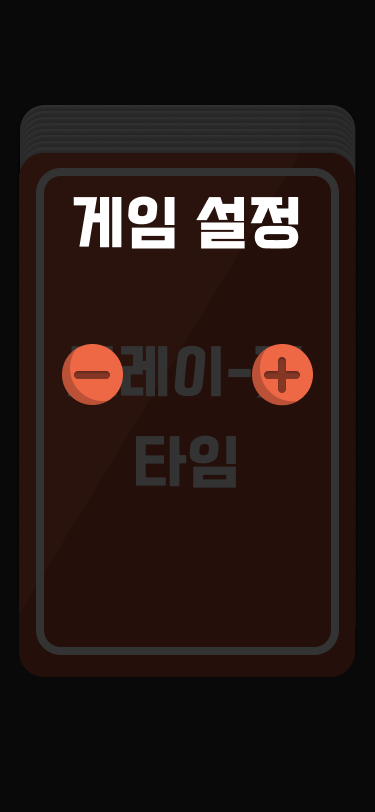
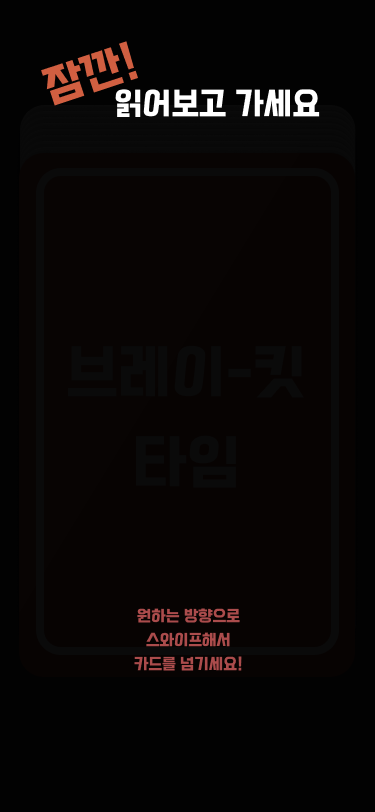
check

diff --git a/lib/CardList.dart b/lib/CardList.dart
@@ -1,0 +1,115 @@
+// ignore: file_names
+// ignore_for_file: file_names, non_constant_identifier_names
+
+import 'package:flutter/material.dart';
+
+List<Widget> Break_It_1_level1 = [
+  CardDeckButton3('13회 OO중학교 동창회 기념’ 같은 문구 적혀있는 수건 절대 안 쓸 것 같은 사람 '),
+  CardDeckButton3('누가 부르는 데 에어팟 끼고 안 들리는 척 할 것 같은 사람 '),
+  CardDeckButton3('길 가다가 번호 따여봤을 것 같은 사람'),
+  CardDeckButton3('동창회에서 만났는데 몰라보게 달라졌을 것 같은 사람'),
+  CardDeckButton3('혼자서 유튜브 보며 낄낄거리다가 화면에 비친 자신의 모습을 보고 현타올 것 같은 사람'),
+  CardDeckButton3('다이어트 때 대리만족 한답시고 먹방 보다가 새벽에 라면 끓여먹을 것 같은 사람   '),
+  CardDeckButton3('고등학교 때 맞춘 반티 아직도 입고 다닐 것 같은 사람  '),
+  CardDeckButton3('머릿 속 지식 절반의 출처가 나무위키일 것 같은 사람   '),
+  CardDeckButton3('클래식 들으면서 아메리카노 한 잔과 함께 아침을 시작할 것 같은 사람   '),
+  CardDeckButton3('샤워할 때 코인노래방 마냥 눈물 쏟는 발라드 부를 것 같은 사람'),
+  CardDeckButton3('  '),
+];
+
+//교회에서 만난 사이
+List<Widget> Break_It_1_level2 = [
+  CardDeckButton3('좋아하는 연예인 생일 때 팬카페 열어서 직접 만든 굿즈 판매할 것 같은 사람   '),
+  CardDeckButton3('화장실을 갔는데 거울에 손자국 있으면 거슬려서 꼭 닦고 나올 것 같은 사람   '),
+  CardDeckButton3('감자 껍질 벗기다가 귀찮아서 그냥 요리에 사용할 것 같은 사람  '),
+  CardDeckButton3('비가 왔는데 우산이 없어도 느긋하게 걸어갈 것 같은 사람'),
+  CardDeckButton3('씽씽이 타는데 보호장구 풀착장하고 탈 것 같은 사람  '),
+  CardDeckButton3('방귀 뀌고 나 아닌데 할 것 같은 사람'),
+  CardDeckButton3('복권 당첨 문자가 와도 3일 후에 확인할 것 같은 사람  '),
+  CardDeckButton3('샤워하며 생각 정리를 할 것 같은 사람'),
+  CardDeckButton3('마트에서 가격표도 안 보고 물건 담을 것 같은 사람 '),
+  CardDeckButton3('버스에서 거스름돈을 200원 더 받아도 그냥 가져갈 것 같은 사람  '),
+];
+List<Widget> Break_It_1_level3 = [
+  CardDeckButton3('땅바닥에 과자 떨어뜨리면 3초 안 됐다며 주워먹을 것 같은 사람  '),
+  CardDeckButton3('이 3초를 세줄 것 같은 사람  '),
+  CardDeckButton3('3초 이미 지났다며 딴지 걸 것 같은 사람  '),
+  CardDeckButton3('길 가다가 5만 원 주우면 주변을 살피고 자기 주머니 속에 넣을 것 같은 사람  '),
+  CardDeckButton3('사람 많은 지하철에서 은근한 몸싸움을 할 것 같은 사람  '),
+  CardDeckButton3('집에 건담로봇 조립해서 시리즈별로 전시해두었을 것 같은 사람  '),
+  CardDeckButton3('전생에 돌멩이였을 것 같은 사람  '),
+  CardDeckButton3('샴푸 브랜드에 민감할 것 같은 사람  '),
+  CardDeckButton3('기사님이 문을 제때 열어주지 않으면 말없이 다음 정거장에 내릴 것 같은 사람  '),
+  CardDeckButton3('온갖 혜택과 쿠폰을 알아와서 영화를 반값에 볼 것 같은 사람  '),
+];
+List<Widget> Break_It_1_level4 = [
+  CardDeckButton3('  '),
+  CardDeckButton3('  '),
+  CardDeckButton3('  '),
+  CardDeckButton3('  '),
+  CardDeckButton3('  '),
+  CardDeckButton3('  '),
+  CardDeckButton3('  '),
+  CardDeckButton3('  '),
+  CardDeckButton3('  '),
+  CardDeckButton3('  '),
+];
+List<Widget> University_level1 = [
+  CardDeckButton3(
+      '원하던 대학교에 추가합격했지만 모르는 전화는 받지 않아 그 사실을 아직까지도 모르고 있을 것 같은 사람   '),
+  CardDeckButton3('학식 받으면서 무한리필 되냐고 물어볼 것 같은 사람  '),
+  CardDeckButton3('전공수업 결석/조퇴를 밥 먹듯이 할 것 같은 사람   '),
+  CardDeckButton3('CC를 꿈꾸며 고백했다가 친한 사이로 남자고 해서 MT 안 나올 것 같은 사람  '),
+  CardDeckButton3('수강신청날 늦잠 자지만 엄청난 운빨로 최고의 시간표를 완성할 것 같은 사람   '),
+  CardDeckButton3('피피티 만들 때 정렬 안 맞거나 글자 크기 안 맞으면 스트레스 받아할 것 같은 사람   '),
+  CardDeckButton3('도서관 오픈 시간에 맞춰가서 마감 시간에 나올 것 같은 사람  '),
+  CardDeckButton3('교수님 손잡고 대학원 갈 것 같은 사람'),
+  CardDeckButton3('하루종일 뒹굴거리면서 과제하기 싫다고 할 것 같은 사람  '),
+  CardDeckButton3('엄청 열심히 하고 B+받아도 만족해할 것 같은 사람  '),
+];
+
+List<Widget> University_level2 = [
+  CardDeckButton3('길 가면 5명 중 한 명꼴로 아는 사람 마주쳐서 같이 다니기 힘든 사람   '),
+  CardDeckButton3('동아리 부자일 것 같은 사람  '),
+  CardDeckButton3('무임승차 했는데도 왠지 모르게 이름을 빼 버리기가 머뭇거려질 것 같은 사람  '),
+  CardDeckButton3('CC를 많이 해서 적이 많을 것 같은 사람  '),
+  CardDeckButton3('도서관에서 음료수에 쪽지 많이 받아봤을 것 같은 사람  '),
+  CardDeckButton3('교수님과 일주일에 한 번 이상 식사를 함께할 것 같은 사람'),
+  CardDeckButton3('피피티 템플릿만 2시간 고를 것 같은 사람  '),
+  CardDeckButton3('안 그래도 바쁘면서 학생회에 나가 고생을 사서 할 것 같은 사람  '),
+  CardDeckButton3('이 시대의 참된 과대상  '),
+  CardDeckButton3('대학교와서 새사람 됐을 것 같은 사람  '),
+];
+
+List<Widget> University_level3 = [
+  CardDeckButton3('아침에 알람 6개 맞춰놨지만 결국 지각할 것 같은 사람  '),
+  CardDeckButton3('조별과제할 때 함께하면 버스 태워줄 것 같은 사람  '),
+  CardDeckButton3('술에 취하면 가장 추한 모습을 보일 것 같은 사람'),
+  CardDeckButton3('교수님 말씀이면 껌뻑 죽을 것 같은 사람'),
+  CardDeckButton3('같이 룸메하면 없는 듯이 지내줄 것 같은 사람'),
+  CardDeckButton3('학식을 먹으면서도 맛있다고 할 것 같은 사람'),
+  CardDeckButton3('편의점 알바하면 노트북 가져가서 게임하고 있을 것 같은 사람'),
+  CardDeckButton3('취업 합격하기 전까진 절대 지원한 곳을 말해주지 않을 것 같은 사람 '),
+  CardDeckButton3('시험 3일 전까지 놀다가 벼락치기 해놓고 시험 망쳤다며 징징거릴 것 같은 사람'),
+  CardDeckButton3('성적 장학금 받아도 티 안내고 다닐 것 같은 사람 '),
+];
+
+List<Widget> Church_level1 = [
+  CardDeckButton3('찬양 부를 때 립싱크 할것 같은 사람'),
+  CardDeckButton3('기도회 때 기도하는 척하면서 잘 것 같은 사람'),
+  CardDeckButton3('이름이 기독교와 관련있을 것 같은 사람'),
+  CardDeckButton3('선물 준다고 해서 교회 따라왔을 것 같은 사람'),
+  CardDeckButton3('예배당 제일 앞자리에 앉을 것 같은 사람'),
+  CardDeckButton3('수련회 이튿날 밤 놀자고 아무도 불러주지 않아서 먼저 잘 것 같은 사람'),
+  CardDeckButton3('유치부 찬양팀 리더여서 율동 (겁나) 뽀짝하게 할 것 같은 사람'),
+  CardDeckButton3('부활절 계란 너무 많이 먹어서 점심 못 먹을 것 같은 사람'),
+  CardDeckButton3('하루에 성경 4장 이상 읽을 것 같은 사람'),
+  CardDeckButton3('교회 안에서 고백 받아본 것 같은 사람 '),
+];
+
+Widget CardDeckButton3(String cardContent) {
+  String cardPath = 'assets/ready.png';
+  String str = cardContent;
+
+  return Container();
+}

diff --git a/lib/gamesetpage.dart b/lib/gamesetpage.dart
@@ -1,4 +1,6 @@
+import 'package:cardgame/readypage.dart';
 import 'package:flutter/material.dart';
+import 'dart:async';
 
 class SetPage extends StatefulWidget {
   const SetPage({Key? key}) : super(key: key);
@@ -8,84 +10,74 @@ class SetPage extends StatefulWidget {
 }
 
 class _SetPageState extends State<SetPage> {
+  late Timer _timer;
+  late Timer _a;
+  String imagePath = "assets/startbutton.png";
+
   int cardcount = 15;
+  /*
+  _SetPageState() {
+    _timer = new Timer(const Duration(milliseconds: 5000), () {
+      setState(() {
+        while (true) {
+          imagePath = "assets/warningstart.png";
+          _a = new Timer(const Duration(milliseconds: 5000), () {
+            imagePath = "assets/startbutton.png";
+          });
+        }
+        ;
+      });
+    });
+  }*/
 
   @override
   Widget build(BuildContext context) {
     return Scaffold(
-        body: Stack(children: [
-      Container(
-        decoration: const BoxDecoration(
-            image: DecorationImage(
-          image: AssetImage("assets/starthome.png"),
-          fit: BoxFit.cover,
-        )),
-      ),
-      Padding(
-        padding: const EdgeInsets.only(
-          // left: 62,
-          top: 347,
-        ),
-        child: Row(
-          mainAxisAlignment: MainAxisAlignment.center,
-          children: [
-            Container(
-              margin: EdgeInsets.zero,
-              padding: EdgeInsets.zero,
-              height: 61,
-              width: 61,
-              child: InkWell(
-                  onTap: () {
-                    minusCounter();
-                  },
-                  child: Image.asset('assets/minusbutton.png')),
-            ),
-            Padding(
-              padding: const EdgeInsets.only(left: 20, right: 20),
-              child: SizedBox(
-                  width: 89,
-                  height: 60,
-                  child: Center(
-                    child: Text(
-                      "$cardcount" "장",
-                      style: const TextStyle(
-                        fontSize: 40,
-                        height: 150 / 100,
-                        fontWeight: FontWeight.w700,
-                        color: Color(0xffFFFFFF),
-                      ),
-                    ),
-                  )),
-            ),
-            Container(
-              margin: EdgeInsets.zero,
-              padding: EdgeInsets.zero,
-              height: 61,
-              width: 61,
-              child: InkWell(
-                  onTap: () {
-                    incrementCounter();
-                  },
-                  child: Image.asset('assets/addbutton.png')),
-            ),
-          ],
-        ),
-      ),
-      Center(
-        child: Padding(
-          padding: const EdgeInsets.only(
-            top: 200,
+      body: Stack(
+        children: [
+          Container(
+            decoration: const BoxDecoration(
+                image: DecorationImage(
+              image: AssetImage("assets/starthome.png"),
+              fit: BoxFit.cover,
+            )),
           ),
-          child: TextButton(
-              onPressed: () {},
-              child: const Text(
-                "게임 시작",
-                style: TextStyle(fontSize: 35, fontWeight: FontWeight.w700),
-              )),
-        ),
-      )
-    ]));
+          Align(
+            alignment: Alignment(0, 0.04434), // 정확하게 센터는 아니라서 계산 하고 넣은것.
+            child: Center(
+                child: Container(
+                    width: 310,
+                    height: 378,
+                    child: Image(
+                      image: AssetImage("assets/cardmove.gif"),
+                      fit: BoxFit.cover,
+                    ))),
+          ),
+          Center(
+            child: Padding(
+              padding: const EdgeInsets.only(top: 709),
+              child: Container(
+                margin: EdgeInsets.zero,
+                padding: EdgeInsets.zero,
+                height: 68,
+                width: 340,
+                child: InkWell(
+                    onTap: () {
+                      Navigator.push(
+                          context,
+                          MaterialPageRoute(
+                              builder: (context) => const ReadyPage()));
+                    },
+                    child: Image.asset(imagePath)),
+              ),
+            ),
+          )
+        ],
+      ),
+    );
   }
+
+  // Do something
 
   void incrementCounter() {
     setState(() {

diff --git a/lib/buttontranstion.dart b/lib/buttontranstion.dart
@@ -1,0 +1,77 @@
+import 'package:flutter/material.dart';
+import 'readypage.dart';
+
+class Startbutton extends StatefulWidget {
+  const Startbutton({Key? key}) : super(key: key);
+
+  @override
+  _StartbuttonState createState() => _StartbuttonState();
+}
+
+class _StartbuttonState extends State<Startbutton>
+    with TickerProviderStateMixin {
+  late AnimationController _resizableController;
+
+  AnimatedBuilder getContainer() {
+    return AnimatedBuilder(
+        animation: _resizableController,
+        builder: (context, child) {
+          return Container(
+            margin: EdgeInsets.zero,
+            padding: EdgeInsets.zero,
+            height: 68,
+            width: 340,
+            child: InkWell(
+              onTap: () {
+                Navigator.push(context,
+                    MaterialPageRoute(builder: (context) => const ReadyPage()));
+              },
+              child: DecoratedBox(
+                  decoration: BoxDecoration(
+                    border: Border.all(
+                        color: Colors.white,
+                        width: _resizableController.value * 10),
+                  ),
+                  child: Image.asset('assets/startbutton.png')),
+            ),
+          );
+        });
+  }
+
+  @override
+  void initState() {
+    _resizableController = AnimationController(
+      vsync: this,
+      duration: const Duration(
+        milliseconds: 1000,
+      ),
+    );
+    _resizableController.addStatusListener((animationStatus) {
+      switch (animationStatus) {
+        case AnimationStatus.completed:
+          _resizableController.reverse();
+          break;
+        case AnimationStatus.dismissed:
+          _resizableController.forward();
+          break;
+        case AnimationStatus.forward:
+          break;
+        case AnimationStatus.reverse:
+          break;
+      }
+    });
+    _resizableController.forward();
+    super.initState();
+  }
+
+  @override
+  Widget build(BuildContext context) {
+    return Scaffold(
+        backgroundColor: Colors.white,
+        appBar: AppBar(
+          title: const Text("Test"),
+          centerTitle: true,
+        ),
+        body: Center(child: getContainer()));
+  }
+}

diff --git a/lib/readypage.dart b/lib/readypage.dart
@@ -1,16 +1,17 @@
 import 'package:flutter/material.dart';
 
 import 'package:animated_text_kit/animated_text_kit.dart';
+import 'package:flutter/scheduler.dart';
 import 'gamesetpage.dart';
 
-class readyPage extends StatefulWidget {
-  const readyPage({Key? key}) : super(key: key);
+class ReadyPage extends StatefulWidget {
+  const ReadyPage({Key? key}) : super(key: key);
 
   @override
-  State<readyPage> createState() => _readyPageState();
+  State<ReadyPage> createState() => _ReadyPageState();
 }
 
-class _readyPageState extends State<readyPage> {
+class _ReadyPageState extends State<ReadyPage> {
   @override
   Widget build(BuildContext context) {
     return Scaffold(
@@ -22,10 +23,9 @@ class _readyPageState extends State<readyPage> {
           fit: BoxFit.cover,
         )),
       ),
-      
       Center(
         child: AnimatedTextKit(
-          pause: Duration(microseconds: 0),
+          pause: const Duration(microseconds: 0),
           totalRepeatCount: 1,
           animatedTexts: [
             ScaleAnimatedText(

diff --git a/lib/main.dart b/lib/main.dart
@@ -4,6 +4,7 @@ import 'package:flutter/material.dart';
 import 'countdown.dart';
 import 'makecarddeck.dart';
 import 'gamesetpage.dart';
+import 'buttontranstion.dart';
 
 void main() {
   runApp(const MyApp());
@@ -36,6 +37,6 @@ class MyHomePage extends StatefulWidget {
 class _MyHomePageState extends State<MyHomePage> {
   @override
   Widget build(BuildContext context) {
-    return const readyPage();
+    return SetPage();
   }
 }
